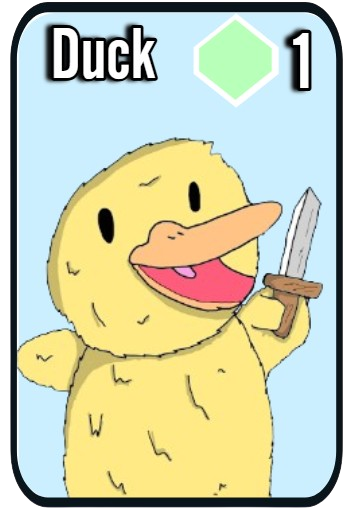
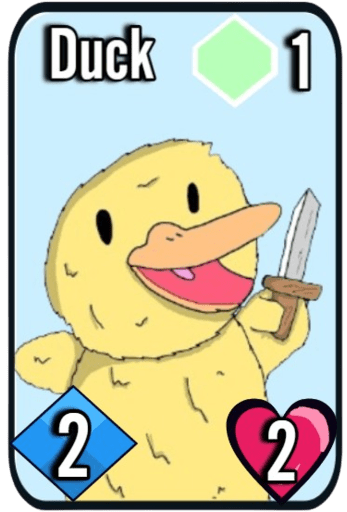
Credits, How to play, and three new cards.

diff --git a/JavaScript/homeFB.js b/JavaScript/homeFB.js
@@ -49,10 +49,25 @@ function createRoom(){
                 let deck = new Deck([]);
                 get(ref(db, `users/${userID}/cards`)).then((snapshot) => {
                     if (snapshot.exists()) {
-                        for (let i = 0; i < snapshot.val().cards.length; i++) {
+                        for(let i = 0; i < 10; i++) {
                             let id;
                             id = snapshot.val().cards[i].id;
-                            deck.addCardBack(createCard(0));
+                            deck.addCardBack(createCard(0)); //adds 10 ducks
+                        }
+                        for(let i = 0; i < 10; i++) {
+                            let id;
+                            id = snapshot.val().cards[i].id;
+                            deck.addCardBack(createCard(6)); ///adds 10 duckrades
+                        }
+                        for(let i = 0; i < 10; i++) {
+                            let id;
+                            id = snapshot.val().cards[i].id;
+                            deck.addCardBack(createCard(14)); //adds 10 duckskateers
+                        }
+                        for(let i = 0; i < 10; i++) {
+                            let id;
+                            id = snapshot.val().cards[i].id;
+                            deck.addCardBack(createCard(15)); //adds 10 gym bros
                         }
                     } else {
                         console.log("error getting deck");
@@ -173,10 +188,25 @@ let joinRoom = evt => {
                             let deck = new Deck([]);
                             get(ref(db, `users/${userID}/cards`)).then((snapshot) => {
                                 if(snapshot.exists()){
-                                    for(let i = 0; i < snapshot.val().cards.length; i++) {
+                                    for(let i = 0; i < 10; i++) {
                                         let id;
                                         id = snapshot.val().cards[i].id;
-                                        deck.addCardBack(createCard(10));
+                                        deck.addCardBack(createCard(0)); //adds 10 ducks
+                                    }
+                                    for(let i = 0; i < 10; i++) {
+                                        let id;
+                                        id = snapshot.val().cards[i].id;
+                                        deck.addCardBack(createCard(6)); ///adds 10 duckrades
+                                    }
+                                    for(let i = 0; i < 10; i++) {
+                                        let id;
+                                        id = snapshot.val().cards[i].id;
+                                        deck.addCardBack(createCard(14)); //adds 10 duckskateers
+                                    }
+                                    for(let i = 0; i < 10; i++) {
+                                        let id;
+                                        id = snapshot.val().cards[i].id;
+                                        deck.addCardBack(createCard(15)); //adds 10 gym bros
                                     }
                                 } else {
                                     console.log("error getting deck");

diff --git a/HTML/howToPlay.html b/HTML/howToPlay.html
@@ -1,0 +1,30 @@
+<!DOCTYPE html>
+<html lang="en">
+<head>
+    <meta charset="UTF-8">
+    <title>Duck Deckers - How to Play</title>
+    <link href="https://cdn.jsdelivr.net/npm/bootstrap@5.3.2/dist/css/bootstrap.min.css" rel="stylesheet" integrity="sha384-T3c6CoIi6uLrA9TneNEoa7RxnatzjcDSCmG1MXxSR1GAsXEV/Dwwykc2MPK8M2HN" crossorigin="anonymous">
+</head>
+
+<body style = "background-color: darkcyan">
+
+<header>
+    <h1>HOW TO PLAY DUCK DECKERS</h1>
+<p>In Duck Deckers, you play your duck cards to attack the opponent. When a duck is first played, it cannot attack. Ducks cost emeralds that refresh after each round. To attack with a duck, click it and press "A" on
+your keyboard. then select your target. You can attack an enemy duck or the enemy themself. To win, get your enemy to zero health. Unfortunately due to time constraints, we are unable to indicate how much damage
+a duck has taken, so just try to use your memory :3</p>
+
+
+</header>
+
+
+<div class="goToHome">
+    <a href="home.html">
+        <button id="shopToHomeButton" type="button" class="btn btn-primary" style="float: left">Back</button></a> <!--THIS TAKES YOU BACK HOME.-->
+</div>
+
+
+
+
+
+

diff --git a/HTML/credits.html b/HTML/credits.html
@@ -1,0 +1,29 @@
+<!DOCTYPE html>
+<html lang="en">
+<head>
+    <meta charset="UTF-8">
+    <title>Duck Deckers - Credits</title>
+    <link href="https://cdn.jsdelivr.net/npm/bootstrap@5.3.2/dist/css/bootstrap.min.css" rel="stylesheet" integrity="sha384-T3c6CoIi6uLrA9TneNEoa7RxnatzjcDSCmG1MXxSR1GAsXEV/Dwwykc2MPK8M2HN" crossorigin="anonymous">
+</head>
+
+<body style = "background-color: darkcyan">
+
+<header style="text-align: center;">
+    <h1>CREDITS</h1>
+    <b>Code: Ethan Pikscher, Josef Zhang, Syed Samad <br>
+    Art: Josef Zhang <br>
+    Database Handling: Ethan Pikscher <br>
+    Marketing: Syed Samad <br>
+    Concept: Josef Zhang <br>
+    Play Testers: Peyton, Tanish, Altin, Holden, Gage, Vibes, Michael, Jordan, Tommy, Evan <br>
+    Special Thanks: Mr. Zickert <br> </b>
+    <img class = "zicky" src = "../webpageImageAssets/zicky.png" alt = "zicky" style="width:200px;height:200px;">
+
+
+</header>
+
+
+<div class="goToHome">
+    <a href="home.html">
+        <button id="shopToHomeButton" type="button" class="btn btn-primary" style="float: left">Back</button></a> <!--THIS TAKES YOU BACK HOME.-->
+</div>

diff --git a/HTML/home.html b/HTML/home.html
@@ -44,6 +44,14 @@
             <a href="shop.html">
                 <button id="goToShopButton" type="button" class="btn btn-primary" style="float: right">Shop</button></a> <!--THIS TAKES YOU TO THE SHOP PAGE.-->
         </div>
+        <div class="howToPlay"> <!-- Shop button; Home -> Shop -->
+            <a href="howToPlay.html">
+                <button id="hotToPlayButton" type="button" class="btn btn-primary" style="float: right">HOW TO PLAY</button></a> <!--THIS TAKES YOU TO THE SHOP PAGE.-->
+        </div>
+        <div class="credits"> <!-- Shop button; Home -> Shop -->
+            <a href="credits.html">
+                <button id="creditsButton" type="button" class="btn btn-primary" style="float: right">Credits</button></a> <!--THIS TAKES YOU TO THE SHOP PAGE.-->
+        </div>
 
         <div class = "loginScreen"> <!-- Sign Out button; Home -> Login -->
             <button id="signOutButton" type="button" class="btn btn-primary" style="float: right">Sign Out</button>
